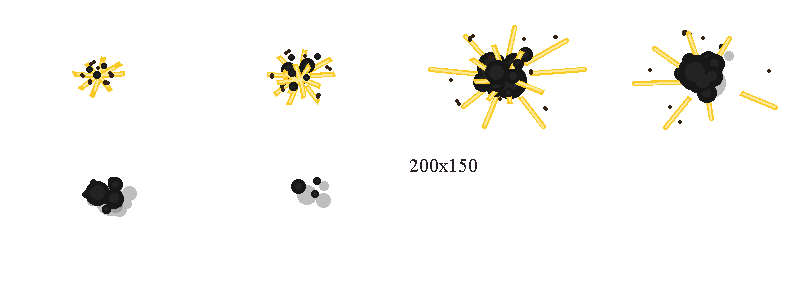
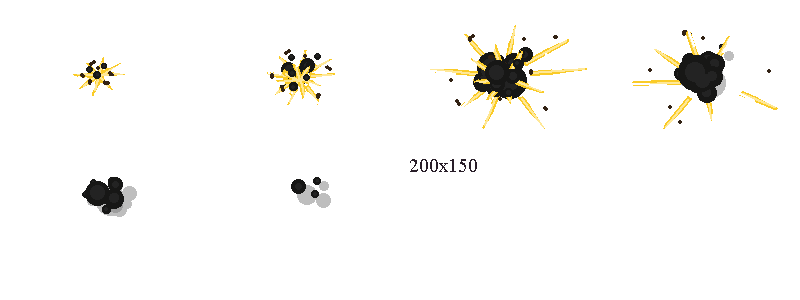
explosion creates a crater.

diff --git a/src/effects.cpp b/src/effects.cpp
@@ -25,22 +25,44 @@ animation::animation(std::string path, uint32_t columns, uint32_t rows,
 	}
 }
 
-effect::effect(uint32_t cell_index_)
-	: cell_index(cell_index_), speed(1.0f / 1000.0f){
-	this->anim = std::make_shared<animation>("./../data/explosion.png",
-		4, 2, 6, sf::Vector2f(200, 150));
-}
+effect::effect(game_info *info, std::string path_, uint32_t cell_index_, float speed_,
+	uint32_t columns, uint32_t rows, uint32_t count, sf::Vector2f size)
+	: path(path_), speed(speed_ / 1000.0f), cell_index(cell_index_), anim_time(count){
 
-void effect::update(float time) noexcept {
-	this->lifetime += time * this->speed;
-};
+	if(!info->animations[path_]){
+		info->animations[path_] =
+			std::make_shared<animation>(path_, columns, rows, count, size);
+	}
+}
 
 void effect::draw(game_info *info, client *client) const noexcept{
 	const cell& cell = info->get_cell(this->cell_index);
 	if(client->is_visable(this->cell_index) && client->on_screen(&cell)){
-		sf::Sprite sprite = anim->get_frame(std::floor(lifetime));
+		sf::Sprite sprite = info->animations[path]->get_frame(std::floor(time_m));
 		client->set_camera_offset(sprite, cell.pos);
 		client->prepare_to_draw(sprite);
 		client->get_window().draw(sprite);
 	}
+}
+
+void effect::update(float time) noexcept{
+	this->time_m += time * this->speed;
+	if(this->time_m > this->anim_time){
+		this->time_m -= this->anim_time;
+	}
+}
+
+one_time_effect::one_time_effect(game_info *info, std::string filename,
+	uint32_t cell_index, float speed, uint32_t columns, uint32_t rows,
+	uint32_t count, sf::Vector2f size)
+	: effect(info, filename, cell_index, speed, columns, rows, count, size) {
+}
+
+void one_time_effect::update(float time) noexcept{
+	this->time_m += time * this->speed;
+}
+
+one_frame_effect::one_frame_effect(game_info *info, std::string filename,
+	 uint32_t cell_index, sf::Vector2f size)
+	 : effect(info, filename, cell_index, 0, 1, 1, 1, size){
 }

diff --git a/src/effects.hpp b/src/effects.hpp
@@ -23,19 +23,52 @@ private:
 
 class effect{
 public:
-	effect(uint32_t cell_index_);
+	effect(game_info *info, std::string filename, uint32_t cell_index, float speed,
+		uint32_t columns, uint32_t rows, uint32_t count, sf::Vector2f size);
 
 	void draw(game_info *info, client *client) const noexcept;
-	void update(float time) noexcept;
-	bool is_life() const noexcept {return this->lifetime < this->max_lifetime;};
+
+	virtual void update(float time) noexcept;
+	virtual bool is_life() const noexcept {return true;};
 private:
-	float speed;
-	std::shared_ptr<animation> anim;
-
-	float lifetime = 0;
-	float max_lifetime = 6;
-
+	std::string path;
 	uint32_t cell_index;
+protected:
+	float speed;
+	float time_m = 0;
+	float anim_time;
 };
+
+class one_time_effect : public effect{
+public:
+	one_time_effect(game_info *info, std::string filename, uint32_t cell_index,
+		float speed, uint32_t columns, uint32_t rows, uint32_t count, sf::Vector2f size);
+
+	void update(float time) noexcept override;
+	bool is_life() const noexcept  override {return this->time_m < this->anim_time;};
+private:
+};
+
+class one_frame_effect : public effect{
+public:
+	one_frame_effect(game_info *info, std::string filename,
+		uint32_t cell_index, sf::Vector2f size);
+
+	void update(float time) noexcept override{;};
+private:
+};
+
+inline std::shared_ptr<effect> create_explosion(game_info *info, uint32_t cell_index);
+inline std::shared_ptr<effect> create_crater(game_info *info, uint32_t cell_index);
+
+inline std::shared_ptr<effect> create_explosion(game_info *info, uint32_t cell_index){
+	return std::make_shared<one_time_effect>(info, "./../data/explosion.png",
+		cell_index, 1.0f, 4, 2, 6, sf::Vector2f(200, 150));
+}
+
+inline std::shared_ptr<effect> create_crater(game_info *info, uint32_t cell_index){
+	return std::make_shared<one_frame_effect>(info, "./../data/crater.png",
+		cell_index, sf::Vector2f(67, 39));
+}
 
 #endif

diff --git a/src/map.hpp b/src/map.hpp
@@ -14,6 +14,8 @@ class projectile;
 struct player;
 struct game_info;
 class effect;
+class static_effect;
+class animation;
 
 #include "client.hpp"
 #include "effects.hpp"
@@ -99,6 +101,8 @@ cardinal_directions_t previous(cardinal_directions_t dir);
 
 cardinal_directions_t get_direction(sf::Vector2f vec);
 
+extern std::shared_ptr<effect> create_crater(game_info *info, uint32_t cell_index);
+
 class cell{
 public:
 	static sf::Vector2f offset[(int)cardinal_directions_t::END];
@@ -114,6 +118,7 @@ public:
 		UINT32_MAX, UINT32_MAX, UINT32_MAX };
 
 	std::shared_ptr<unit> unit = nullptr;
+	std::shared_ptr<effect> deform = nullptr;
 //	std::shared_ptr<effect> effect = nullptr;
 //	std::list<std::shared_ptr<projectile>> projectiles;
 
@@ -125,6 +130,11 @@ public:
 	inline bool is_soft_obstacle() const noexcept {
 		return (unit != nullptr) || this->is_terrain_obstacle() ?
 		true : false; };
+
+	void draw(game_info *info, client *client);
+
+	void add_crater(game_info *info, uint32_t cell_index) noexcept{
+		this->deform = create_crater(info, cell_index), ter.objects.clear();};
 };
 
 struct player_info{
@@ -169,6 +179,8 @@ struct player{
 };
 
 struct game_info{
+	std::map<std::string, std::shared_ptr<animation>> animations;
+
 	std::list<std::shared_ptr<projectile>> projectiles;
 	std::list<std::shared_ptr<effect>> effects;
 

diff --git a/src/map.cpp b/src/map.cpp
@@ -688,6 +688,7 @@ void draw_vision_map_f(game_info *info, client *client,
 					sprite.setPosition(client->perspective(draw_position(&cell, client) + obj.pos));
 					object_sprites->emplace_back(sprite);
 				}
+				cell.draw(info, client);
 			}
 		}
 	}
@@ -1220,18 +1221,9 @@ std::list<uint32_t> get_area(game_info *info, uint32_t cell_index, uint32_t dept
 	res.unique();
 	return res;
 }
-/*
-void cell::update(float time) noexcept{
-	if(this->effect){
-		if(this->effect->is_life())
-			this->effect->update(time);
-		else
-			this->effect = nullptr;
-	}
-};
 
-void cell::draw(game_info *info, client *client) const noexcept{
-	if(this->effect){
-		this->effect->draw(info, client);
+void cell::draw(game_info *info, client *client){
+	if(deform){
+		deform->draw(info, client);
 	}
-};*/
+}

diff --git a/src/unit.cpp b/src/unit.cpp
@@ -49,7 +49,8 @@ void projectile::update(game_info *info, float time){
 
 		if( this->path.empty() || info->get_cell(this->cell_index).is_soft_obstacle()){
 			this->explosion = true;
-			info->add_effect(std::make_shared<effect>(cell_index));
+			info->add_effect(create_explosion(info, cell_index));
+			info->get_cell(this->cell_index).add_crater(info, cell_index);
 		}
 	}
 }
